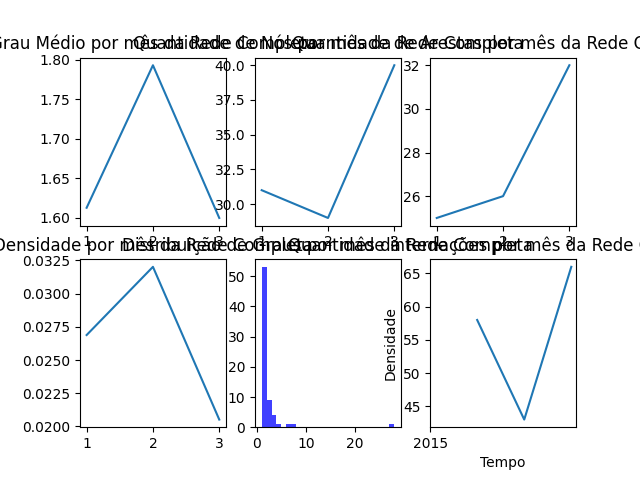
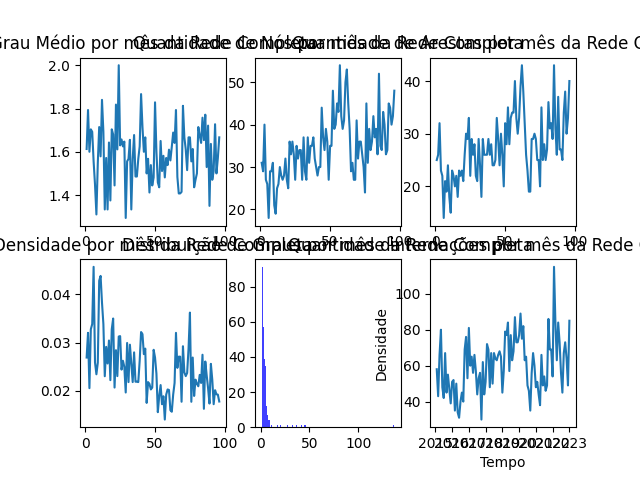
Att Graficos da Grade

diff --git a/main.py b/main.py
@@ -15,9 +15,13 @@ RC5 = RedeComplexa("Tratamento Clínico")  # REDE INTERNACOES DOMICILIARES
 ListaRedes = [RC1]
 
 for i in ListaRedes:
+    
     data_inicial = datetime(2015, 1, 1)  # DATA EXATA
-    data_final = datetime(2022, 12, 31)  # DATA EXATA
+    data_final = datetime(2022, 12, 31)  # DATA EXATA (Total)
+    # data_final = datetime(2019, 12, 31)  # DATA EXATA (5 anos)
+    # data_final = datetime(2015, 3, 31)  # DATA EXATA (3 meses)
     data = data_inicial
+    
     while data <= data_final:
         ano = str(data.year)[2:]
         mes = int(data.month)
@@ -32,17 +36,22 @@ for i in ListaRedes:
 
 for i in ListaRedes:
     i.criarRedeComplexa()
-
+    # plt.figure()
+    
     # Plots
-    # i.imprimirGraus()
-    # i.imprimirQuantidadeNos()
-    # i.imprimirQuantidadeArestas()
-    # i.imprimirQuantidadePesos()
-    # i.imprimirDensidade()
-    # i.imprimirDistribuiçãoGraus()
-    plt.figure()
-    i.imprimirDistanciasPorMes()  # INCOMPLETO
+    i.imprimirGraus()
+    i.imprimirQuantidadeNos()
+    i.imprimirQuantidadeArestas()
+    i.imprimirQuantidadePesos()
+    i.imprimirDensidade()
+    i.imprimirDistribuiçãoGraus()
+    
+    #i.imprimirDistanciasPorMes()  # INCOMPLETO
+    
     plt.show()
 
 # Distancias
 # gerarDfDistancias(RC1.redeComplexa)
+
+i.mostrarRedeComplexa()
+plt.show()

diff --git a/RedeComplexa.py b/RedeComplexa.py
@@ -40,12 +40,17 @@ class RedeComplexa:
         for i in self.__listaRedes:
             i.MostrarRede()
 
-    # Infos do eixo dos Plots
+    # Infos do eixo dos Plots (Total)
     anos = np.arange(2015, 2024, 1)  # Ano Inicial +1 / Ano final + 2
     meses = np.arange(1, 97, 1)
 
+    # Para 3 meses
     # anos = np.arange(2015, 2016, 1)
     # meses = np.arange(1, 4, 1)
+    
+    # # Para 3 meses
+    # anos = np.arange(2015, 2020, 1)
+    # meses = np.arange(1, 61, 1)
 
     posicao_dos_anos = [(i - 2016 + 1) * 12 for i in anos]
 
@@ -132,8 +137,11 @@ class RedeComplexa:
             listaDistancias.append(
                 np.mean([d for s, t, d in i.rede.edges.data("distancia")])
             )
+        # plt.title(f"Distância Média por mês da Rede {self.nome}")
+        # plt.plot(RedeComplexa.meses, listaDistancias)
+        axs[2, 0].set_title(f"Distância Média por mês da Rede {self.nome}")
+        axs[2, 0].plot(RedeComplexa.meses, listaDistancias)
+        
         plt.xlabel("Tempo")
         plt.ylabel("Distância Média (km)")
         plt.xticks(RedeComplexa.posicao_dos_anos, RedeComplexa.anos)
-        plt.title(f"Distância Média por mês da Rede {self.nome}")
-        plt.plot(RedeComplexa.meses, listaDistancias)
